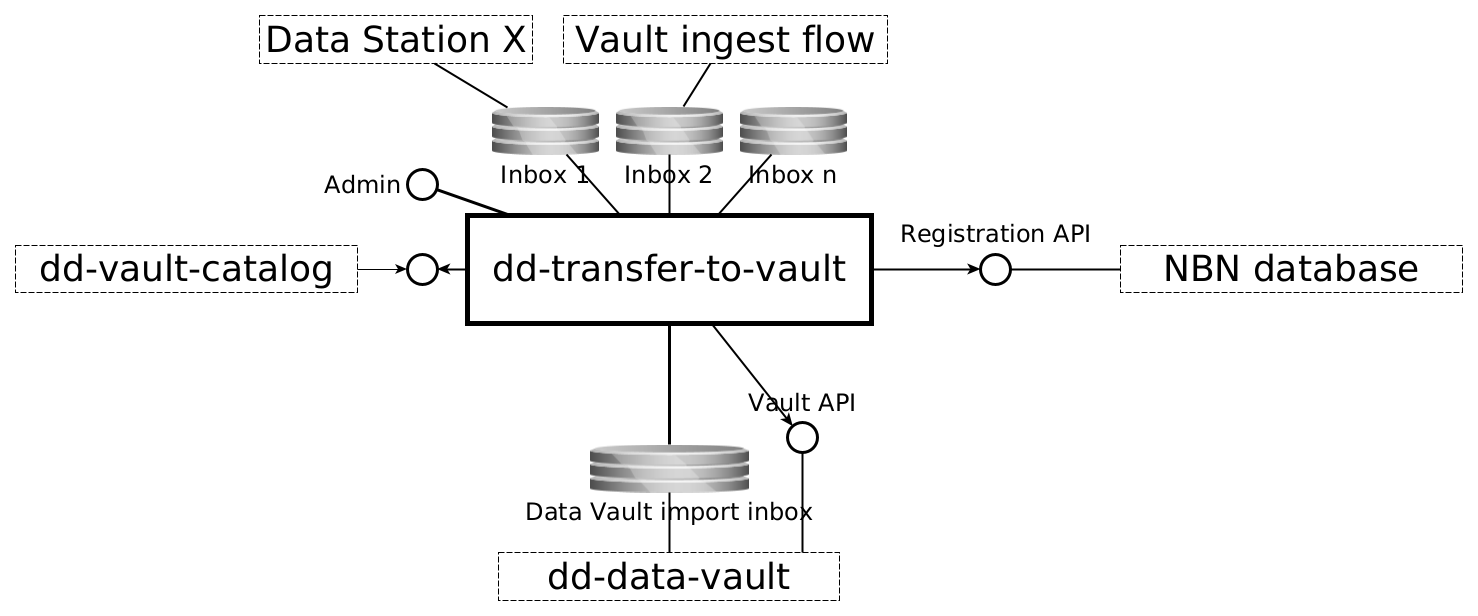
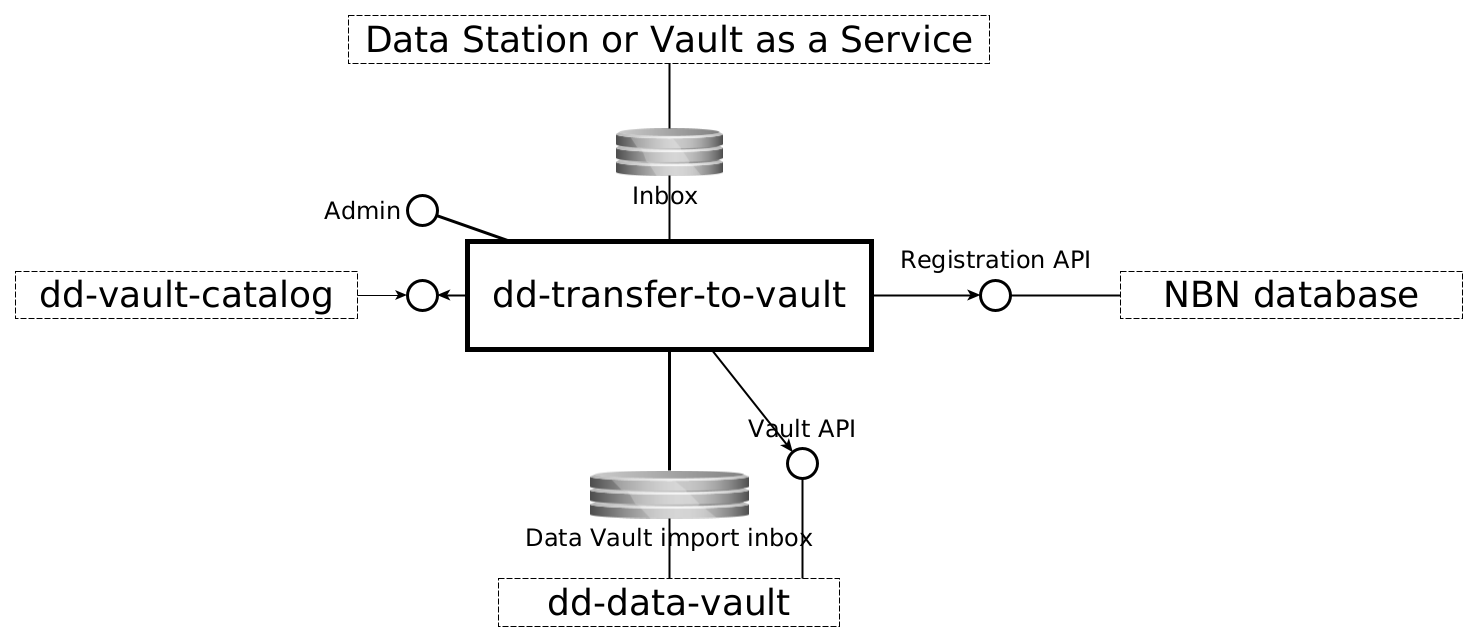
Make service profile mandatory

diff --git a/docs/description.md b/docs/description.md
@@ -17,7 +17,7 @@ Interfaces
 
 ### Provided
 
-#### Inbox directories
+#### Inbox
 
 * _Protocol type_: Shared filesystem
 * _Internal or external_: **internal**
